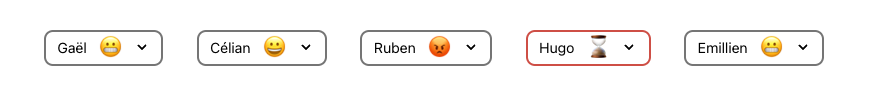
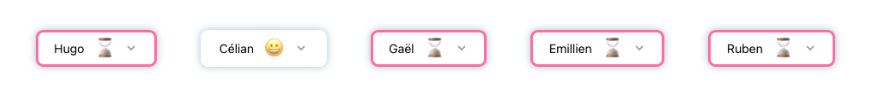
Update manifest and fix auth issue

Changed region(s): [[0.2167, 0.2947, 0.9599, 0.7368], [0.031, 0.2947, 0.1858, 0.7368]]

diff --git a/src/components/CardTrello.jsx b/src/components/CardTrello.jsx
@@ -67,13 +67,13 @@ function CardTrello(props) {
   }, [cardData]);
 
   const cardIssue = useMemo(() => {
-    const errorStyle = { borderColor: '#d45950', borderWidth: 5, borderStyle: 'solid' };
+    const errorStyle = { borderColor: '#ff78a9', borderWidth: 4, borderStyle: 'solid' };
     if (cardData?.idList === trello.DONE_LIST_ID && (estimatedHourlyCost == null || hourlyCost == null))
       return ['Information sur les horaires manquante(s)', errorStyle];
     if (cardData?.idList === trello.IN_PROGRESS_LIST_ID && estimatedHourlyCost == null)
       return ['Estimation du temps de réalisation manquante', errorStyle];
     if (cardData?.members.length === 0)
-      return ['Aucun membre n\'est affecté à cette carte', { borderColor: '#3e8ccc', borderWidth: 5, borderStyle: 'solid' }];
+      return ['Aucun membre n\'est affecté à cette carte', { borderColor: '#3e8ccc', borderWidth: 4, borderStyle: 'solid' }];
     return [undefined, undefined];
   }, [cardData, estimatedHourlyCost, hourlyCost]);
 

diff --git a/public/index.html b/public/index.html
@@ -7,9 +7,9 @@
     <meta name="theme-color" content="#000000" />
     <meta
       name="description"
-      content="Web site created using create-react-app"
+      content="Trello but with enhanced project management features !"
     />
-    <link rel="apple-touch-icon" href="%PUBLIC_URL%/logo192.png" />
+    <link rel="apple-touch-icon" href="%PUBLIC_URL%/logo.png" />
     <!--
       manifest.json provides metadata used when your web app is installed on a
       user's mobile device or desktop. See https://developers.google.com/web/fundamentals/web-app-manifest/
@@ -24,7 +24,7 @@
       work correctly both with client-side routing and a non-root public URL.
       Learn how to configure a non-root public URL by running `npm run build`.
     -->
-    <title>React App</title>
+    <title>PT4 - Dashboard</title>
   </head>
   <body>
     <noscript>You need to enable JavaScript to run this app.</noscript>

diff --git a/src/components/TeamMood.jsx b/src/components/TeamMood.jsx
@@ -72,7 +72,7 @@ function TeamMood(props) {
     <div className="team-mood-container">
       {Object.entries(weekMoods).map(([member, mood], index) => (
         <div
-          style={(mood === '⌛' || mood == undefined) ? { borderColor: '#d45950' } : {}}
+          style={(mood === '⌛' || mood == undefined) ? { borderColor: '#ff78a9' } : {}}
           key={index}
           className='mood-container'
         >

diff --git a/src/stylesheets/mood.css b/src/stylesheets/mood.css
@@ -10,13 +10,16 @@
 .mood-container {
     min-width: 30px;
     height: 30px;
-    border: solid grey 3px;
+    
+    border: solid 4px transparent;
+
+    box-shadow: 0 0 10px 0 rgba(85, 138, 173, 0.5);
     border-radius: 10px;
 
     display: flex;
     align-items: center;
 
-    padding: 2px 12px;
+    padding: 5px 20px;
 }
 
 .mood-container > select {
